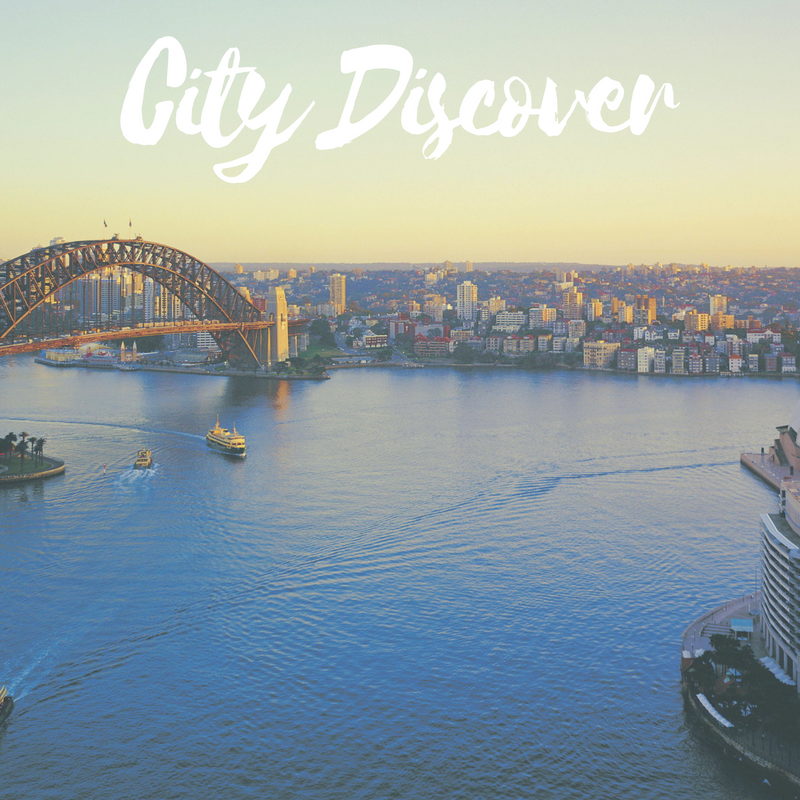
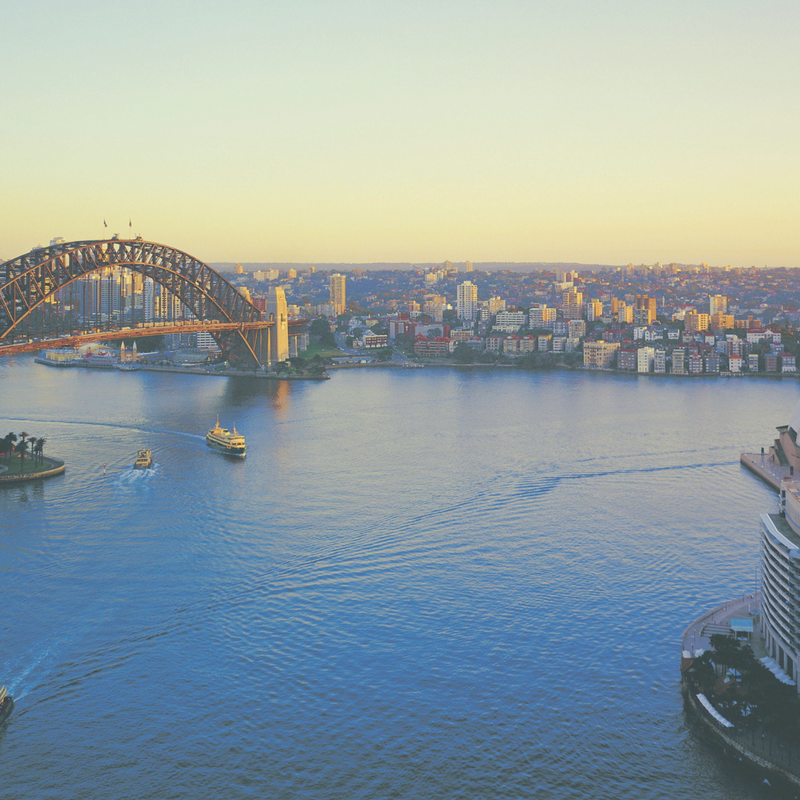
background image without text

Changed region(s): [[0.125, 0.0312, 0.8438, 0.25]]

diff --git a/main.css b/main.css
@@ -29,6 +29,12 @@ body {
 	max-width: 1000px;
 	margin: 0 auto;
 	background-color: #F8F8F8;
+	background-image: 
+	url("https://raw.githubusercontent.com/fulin426/city-discover-api-capstone/master/images/Myguide.png");
+	background-repeat: no-repeat;
+	background-attachment: fixed;
+    background-position: center;
+    background-size: cover;
 }
 /*heading section*/
 .header {
@@ -57,6 +63,7 @@ body {
 
 #intro {
 	font-size: 16px;
+	color: white;
 }
 /*search bar section*/
 .searchbar {
@@ -135,6 +142,7 @@ button {
 	border-radius: 4px;
 	padding: 12px;
 	overflow: auto;
+	background: #F5F5F5;
 }
 
 .venue_name{
@@ -196,6 +204,6 @@ button {
 }
 
 .container_results{
-  height: 508px;
+  height: 480px;
   overflow: auto;
 }

diff --git a/index.html b/index.html
@@ -11,7 +11,7 @@
   	<header class="row">
   		<div class="col-12 header">
   			<div class="header-content">
-	  			<h1 id="city">City Discover</h1>
+	  			<!-- <h1 id="city">City Discover</h1> -->
   			</div>
   		</div>
   	</header>
